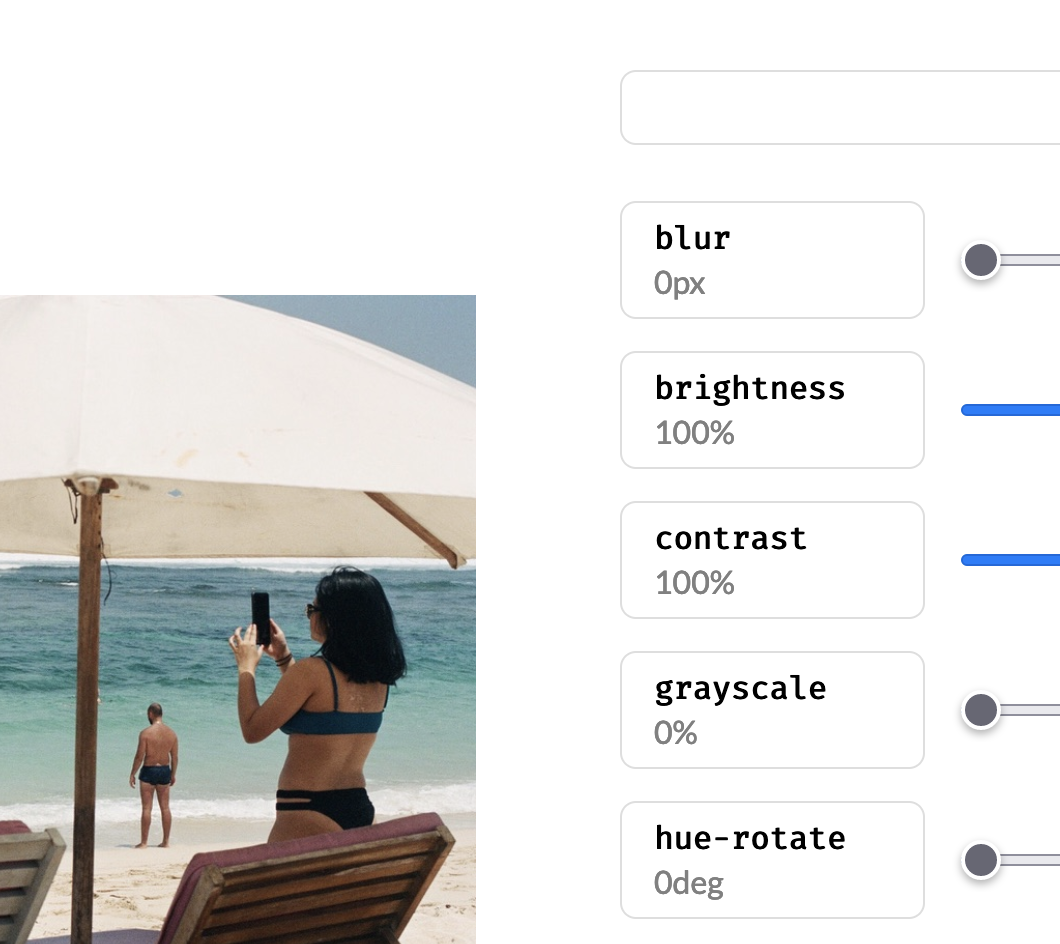
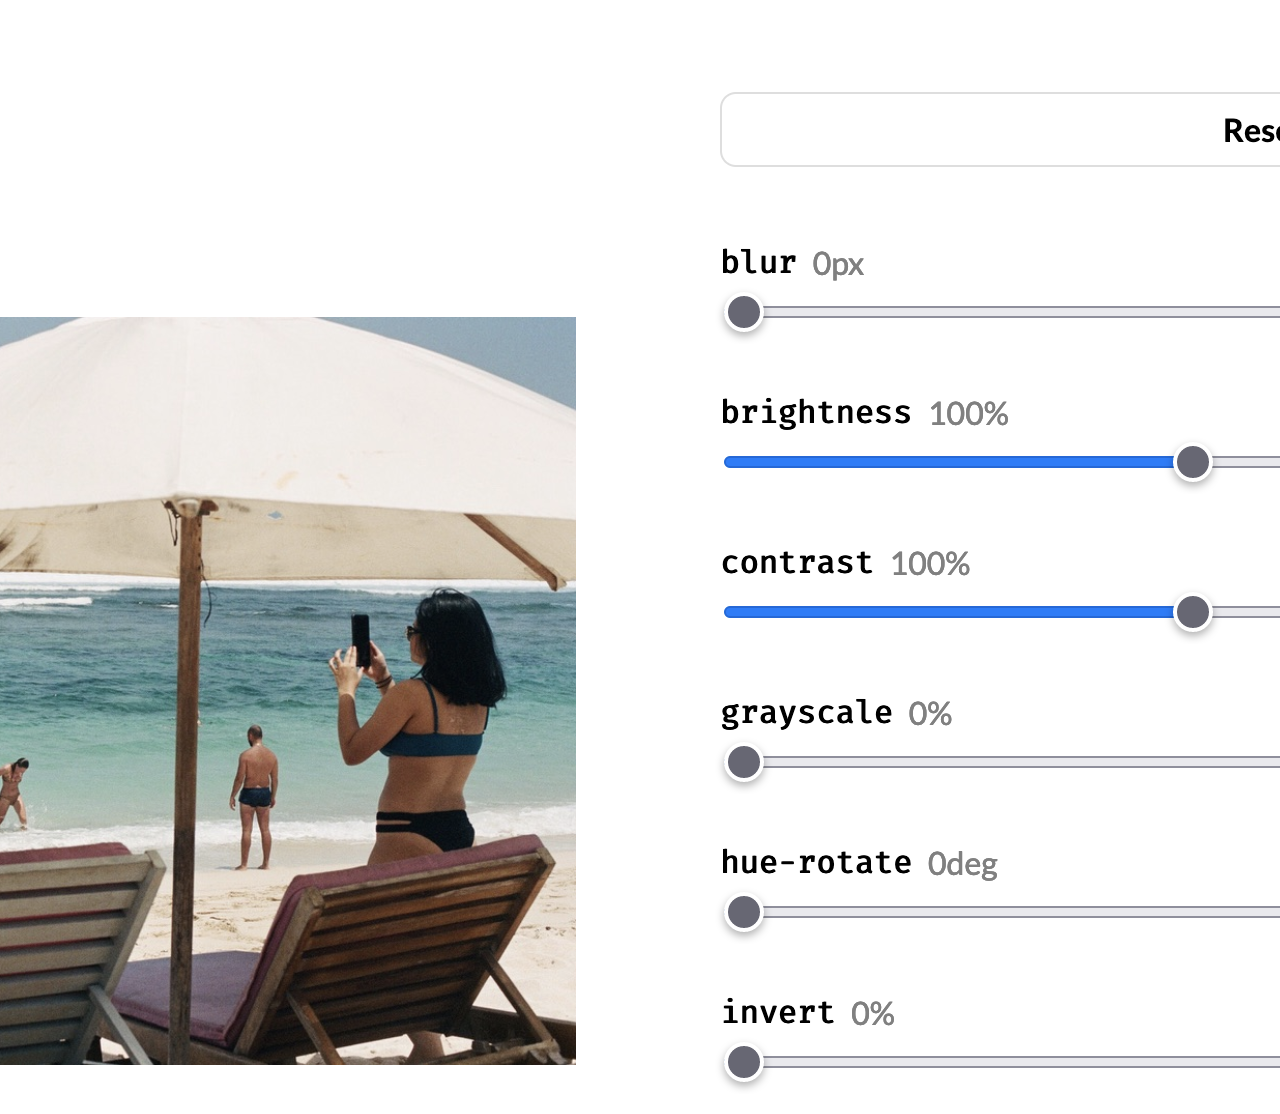
restyle hover states and add Code component

diff --git a/src/routes/filter/+page.svelte b/src/routes/filter/+page.svelte
@@ -1,12 +1,12 @@
 <script lang="ts">
   import { onMount } from 'svelte';
-  import Prism from 'prismjs';
 
   import Page from '$lib/Page.svelte';
   import picture from '$lib/assets/filter-picture.jpeg';
   import Header from '$lib/Header.svelte';
   import InputRange from './InputRange.svelte';
   import filters, { defaultFilters } from './filters';
+  import Code from './Code.svelte';
 
   $: all = defaultFilters;
   $: css = '';
@@ -51,9 +51,7 @@
         <img src={picture} class="asset-img" alt="Two people at the beach with a sun umbrella" />
       </div>
       <div class="code-container">
-        <div class="code">
-          {@html Prism.highlight(`filter: ${css || 'none'};`, Prism.languages.css, 'css')}
-        </div>
+        <Code content={`filter: ${css || 'none'};`} language="css" />
       </div>
     </div>
     <div class="range-container">
@@ -64,9 +62,7 @@
             <span class="name">{s}</span><span class="value">{a.value}{a.unit}</span>
           </p>
           <div class="range-input">
-            <div class="range-slider-container">
-              <InputRange name={s} min={a.min} max={a.max} />
-            </div>
+            <InputRange name={s} min={a.min} max={a.max} />
             <button class="range-reset" on:click={reset(s)}>Reset</button>
           </div>
         </div>
@@ -76,30 +72,7 @@
 </Page>
 
 <style>
-  @import url('https://fonts.googleapis.com/css2?family=Fira+Mono&family=Lato:wght@300;400;700;900&display=swap');
-
-  :root {
-    --primary-text-color: black;
-    --secondary-text-color: grey;
-
-    --primary-code-text-color: black;
-    --secondary-code-text-color: grey;
-
-    --button-background: #fff;
-    --button-border-color: var(--border-color);
-  }
-
-  :global(.token.property) {
-    color: var(--primary-code-text-color);
-  }
-
-  :global(.token.function) {
-    color: var(--secondary-code-text-color);
-  }
-
   .container {
-    font-family: 'Lato', sans-serif;
-
     display: grid;
     width: 100%;
   }
@@ -136,17 +109,6 @@
     margin-top: 24px;
   }
 
-  .code {
-    padding: 16px;
-    width: 100%;
-
-    border: 1px solid var(--border-color);
-    color: var(--primary-code-text-color);
-    border-radius: 8px;
-
-    font-family: 'Fira Mono', monospace;
-  }
-
   .range-container {
     width: 100%;
 
@@ -172,12 +134,11 @@
     margin: 0;
     padding: 0;
 
-    background: var(--button-background);
     color: var(--primary-text-color);
   }
 
   .range-label .name {
-    font-family: 'Fira Mono', monospace;
+    font-family: var(--code-font-family);
     font-weight: 700;
   }
 
@@ -188,35 +149,6 @@
   .range-input {
     display: flex;
     gap: 16px;
-  }
-
-  .range-slider-container {
-    width: 100%;
-
-    display: flex;
-    align-items: center;
-    gap: 12px;
-  }
-
-  .range-reset {
-    all: unset;
-
-    background: var(--button-background);
-    border: 1px solid var(--button-border-color);
-    border-radius: 8px;
-
-    padding: 8px 16px;
-
-    font-weight: 700;
-    text-align: center;
-    color: var(--primary-text-color);
-
-    cursor: pointer;
-  }
-
-  .range-reset:hover,
-  .range-reset:focus-visible {
-    color: var(--secondary-text-color);
   }
 
   .range-reset.all {

diff --git a/src/global.css b/src/global.css
@@ -1,10 +1,15 @@
-@import url('https://fonts.googleapis.com/css2?family=Noto+Serif+Toto:wght@400;700&display=swap');
+@import url('https://fonts.googleapis.com/css2?family=Fira+Mono&family=Lato:wght@300;400;700;900&family=Noto+Serif+Toto:wght@400;700&display=swap');
 
 :root {
   --primary-text-color: #242629;
   --secondary-text-color: #525252;
 
-  --border-color: #dedede;
+  --primary-border-color: #dedede;
+  --secondary-border-color: #a5a5a5;
+
+  --app-font-family: 'Noto Serif Toto', serif;
+  --content-font-family: 'Lato', sans-serif;
+  --code-font-family: 'Fira Mono', monospace;
 }
 
 html {
@@ -12,7 +17,7 @@ html {
 }
 
 body {
-  font-family: 'Noto Serif Toto', serif;
+  font-family: var(--app-font-family);
 
   min-height: 100%;
   margin: 0;
@@ -27,6 +32,34 @@ a:visited {
 
 a:hover,
 a:focus,
-a:focus-visible {
+a:focus-visible,
+a:focus-within {
+  outline: none;
   color: var(--secondary-text-color);
+  text-decoration: underline;
+}
+
+button,
+button:visited {
+  all: unset;
+
+  border: 1px solid var(--primary-border-color);
+  border-radius: 8px;
+
+  padding: 8px 16px;
+
+  font-weight: 700;
+  text-align: center;
+  color: var(--primary-text-color);
+
+  cursor: pointer;
+}
+
+button:hover,
+button:focus,
+button:focus-visible,
+button:focus-within {
+  color: var(--secondary-text-color);
+  border-color: var(--secondary-border-color);
+  text-decoration: underline;
 }

diff --git a/src/lib/Routes.svelte b/src/lib/Routes.svelte
@@ -5,8 +5,7 @@
 <div class="container">
   {#each Object.keys(routes) as path}
     <div class="card">
-      <img src={routes[path].cover} alt={`Cover art for ${routes[path].name}`} />
-      <a href={path}>{routes[path].name}</a>
+      <a href={path}><img src={routes[path].cover} alt={routes[path].name} /></a>
     </div>
   {/each}
 </div>
@@ -15,13 +14,11 @@
   .container {
     display: grid;
     grid-template-columns: 1fr;
-    gap: 24px;
+    gap: 48px;
   }
 
   .card {
-    flex: 1;
-
-    border: 1px solid var(--border-color);
+    border: 1px solid var(--primary-border-color);
     border-radius: 20px;
 
     text-align: center;
@@ -34,15 +31,18 @@
     overflow: hidden;
   }
 
-  .card > img {
+  .card > a,
+  .card > a > img {
     width: 100%;
     height: 100%;
     object-fit: cover;
   }
 
-  .card > a {
-    border-top: 1px solid var(--border-color);
-    padding: 24px;
+  .card:hover,
+  .card:focus,
+  .card:focus-visible,
+  .card:focus-within {
+    border-color: var(--secondary-border-color);
   }
 
   @media screen and (min-width: 768px) {

diff --git a/src/routes/tip-calculator/+page.svelte b/src/routes/tip-calculator/+page.svelte
@@ -113,7 +113,7 @@
   }
 
   .output:first-child {
-    border-bottom: 1px solid var(--border-color);
+    border-bottom: 1px solid var(--primary-border-color);
     margin: 0 8px;
   }
 
@@ -206,7 +206,7 @@
 
   .bill-amount {
     flex: 2;
-    border-right: 1px solid var(--border-color);
+    border-right: 1px solid var(--primary-border-color);
   }
 
   .number-of-people {
@@ -223,8 +223,8 @@
     background: #eeeeee;
     padding: 24px 48px;
 
-    border-top: 1px solid var(--border-color);
-    border-bottom: 1px solid var(--border-color);
+    border-top: 1px solid var(--primary-border-color);
+    border-bottom: 1px solid var(--primary-border-color);
   }
 
   .tip-amount > input {

diff --git a/src/lib/Header.svelte b/src/lib/Header.svelte
@@ -43,7 +43,7 @@
     justify-content: center;
     gap: 2px;
 
-    border-bottom: 1px solid var(--border-color);
+    border-bottom: 1px solid var(--primary-border-color);
     padding: 16px 0;
   }
 
@@ -103,7 +103,7 @@
     .heading-container {
       text-align: right;
       border-bottom: none;
-      border-right: 1px solid var(--border-color);
+      border-right: 1px solid var(--primary-border-color);
       padding: 0 24px;
     }
 

diff --git a/src/routes/filter/Code.svelte b/src/routes/filter/Code.svelte
@@ -1,0 +1,22 @@
+<script lang="ts">
+  import Prism from 'prismjs';
+
+  export let content: string;
+  export let language: string;
+</script>
+
+<div class="code">
+  {@html Prism.highlight(content, Prism.languages[language], language)}
+</div>
+
+<style>
+  .code {
+    padding: 16px;
+    width: 100%;
+
+    border: 1px solid var(--primary-border-color);
+    border-radius: 8px;
+
+    font-family: var(--code-font-family);
+  }
+</style>

diff --git a/src/routes/filter/InputRange.svelte b/src/routes/filter/InputRange.svelte
@@ -14,7 +14,7 @@
     });
   });
 
-  const handleInput: FormEventHandler<HTMLInputElement> = (e) => {
+  const handleInput = (e: Event & { currentTarget: EventTarget & HTMLInputElement }) => {
     filters.update((f) => {
       f[name].update(Number(e.currentTarget.value));
       return f;

diff --git a/src/lib/NavLink.svelte b/src/lib/NavLink.svelte
@@ -85,8 +85,9 @@
 
   .nav-link:hover,
   .nav-link:focus,
-  .nav-link:focus-visible {
-    border: 1px solid var(--border-color);
+  .nav-link:focus-visible,
+  .nav-link:focus-within {
+    border: 1px solid var(--primary-border-color);
   }
 
   @media screen and (min-width: 768px) {

diff --git a/src/lib/Footer.svelte b/src/lib/Footer.svelte
@@ -11,7 +11,7 @@
 
 <style>
   .footer {
-    border-top: 1px solid var(--border-color);
+    border-top: 1px solid var(--primary-border-color);
     padding-top: 12px;
     margin-bottom: 64px;
   }

diff --git a/src/lib/Page.svelte b/src/lib/Page.svelte
@@ -46,6 +46,8 @@
   }
 
   .content {
+    font-family: var(--content-font-family);
+
     flex-grow: 1;
 
     display: flex;
